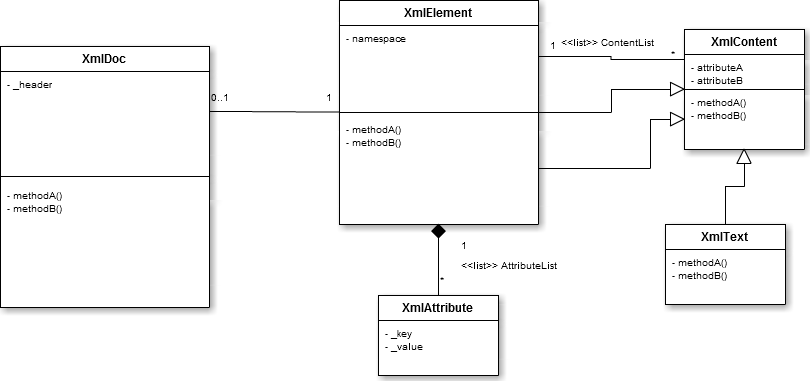
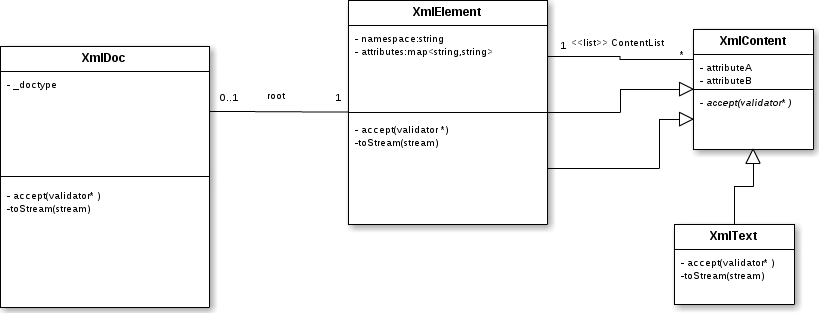
avancées dans la rédaction du rapport

Changed region(s): [[0.0, 0.0, 1.0, 1.0], [0.0, 0.6038, 0.1235, 0.6901], [0.0, 0.2588, 0.0617, 0.2875]]

diff --git a/SRC/AnalyseSyntaxique/src/structure/XmlDoc.cpp b/SRC/AnalyseSyntaxique/src/structure/XmlDoc.cpp
@@ -33,9 +33,6 @@ XmlDoc* XmlDoc::CreateDummyXmlForRap1()
 
   elt->addChild( new XmlElement( "" ,"titre" ) );
   elt->childElement("titre")->addChild( new XmlText("le titre") );
-
-  //elt->addChild( new XmlElement("p") );
-  //elt->childElement("p")->addChild(new XmlText("ooops"));
   
   elt->addChild( new XmlElement( "" ,"auteur" ) );
   elt->childElement("auteur")->addChild(new XmlElement("","prenom"));
@@ -49,23 +46,23 @@ XmlDoc* XmlDoc::CreateDummyXmlForRap1()
   
 
   elt->addChild( new XmlElement( "" ,"resume" ) );
-  elt->childElement("resume")->addChild(new XmlText("sioghipshgoipssgh" ));
+  elt->childElement("resume")->addChild(new XmlText("text de l'element resume" ));
   
   elt->addChild( new XmlElement( "" ,"chapitre" ) );
   elt->childElement("chapitre")->addChild(new XmlElement("","titre"));
-  elt->childElement("chapitre")->childElement("titre")->addChild(new XmlText("COmment faire de la merde" ));
+  elt->childElement("chapitre")->childElement("titre")->addChild(new XmlText("ceci est un titre" ));
   
   elt->childElement("chapitre")->addChild(new XmlElement("","section"));
   elt->childElement("chapitre")->childElement("section")->addChild(new XmlElement("","titre"));
-  elt->childElement("chapitre")->childElement("section")->childElement("titre")->addChild(new XmlText("titre de la section terrain" ));
+  elt->childElement("chapitre")->childElement("section")->childElement("titre")->addChild(new XmlText("titre de la section " ));
   elt->childElement("chapitre")->childElement("section")->addChild(new XmlElement("","p"));
-  elt->childElement("chapitre")->childElement("section")->childElement("p")->addChild(new XmlText("tqjkgjushgioshgidsghsdhsjjdghoidhgoi idrh w qrih goiwdh owdih oiwdhg iwh n" ));
+  elt->childElement("chapitre")->childElement("section")->childElement("p")->addChild(new XmlText("voici le texte de la section, un joli paragraph de texte." ));
   
   elt->childElement("chapitre")->addChild(new XmlElement("","section"));
   elt->childElement("chapitre")->childElement("section",1)->addChild(new XmlElement("","titre"));
   elt->childElement("chapitre")->childElement("section",1)->childElement("titre")->addChild(new XmlText("titre de la section terrain2" ));
   elt->childElement("chapitre")->childElement("section",1)->addChild(new XmlElement("","p"));
-  elt->childElement("chapitre")->childElement("section",1)->childElement("p")->addChild(new XmlText("tqjkgjushgioshgids<sdhw<  wfgj sfkijghsdhsjjdghoidhgoi idrh w qrih goiwdh owdih oiwdhg iwh n" ));
+  elt->childElement("chapitre")->childElement("section",1)->childElement("p")->addChild(new XmlText("encore un paragraph" ));
 
 
 
@@ -86,7 +83,7 @@ XmlDoc* XmlDoc::CreateDummyXmlForNoob()
   elt->addChild( new XmlElement( "" ,"titre" ) );
   
   
-  elt->childElement("titre")->addChild(new XmlText("COmment faire de la merde" ));
+  elt->childElement("titre")->addChild(new XmlText("Ceci est un titre" ));
   
 	return rap1xml;
 }

diff --git a/DOC/StructureDeDonnees.tex b/DOC/StructureDeDonnees.tex
@@ -2,9 +2,21 @@
 ici sont a coller tous les chémas concernant les différentes structures de données.
 
 \subsection{Xml}
+\begin{figure}[H]
+	\begin{center}
+	% l b r t
+		\includegraphics[scale=0.5]{IMG/XmlStructures.png}
+		\caption{Structure de données pour un document Xml}
+	\end{center}
+\end{figure}
 
 \subsection{Dtd}
-
-\subsection{Xsl}
+\begin{figure}[H]
+	\begin{center}
+	% l b r t
+		\includegraphics[scale=0.5]{IMG/DtdStructures.png}
+		\caption{Structure de données pour un document Dtd}
+	\end{center}
+\end{figure}
 
 

diff --git a/SRC/AnalyseSyntaxique/src/main.cpp b/SRC/AnalyseSyntaxique/src/main.cpp
@@ -52,9 +52,6 @@ int main(int argc, char **argv)
         
   //ici doit être mis l'apel au validateur  
   bool status = XmlValidator::validate( XmlDataStructure, DtdDataStructure); 
-  if(status)
-    std::cout <<"tout c'est bien passé"<<std::endl;
-  std::cout<<"on a un problemeklsgshgpixhgixhgixhgij"<<std::endl;
   DtdDataStructure->toStream(std::cout);
     
   printf("Coucou j'ai dilété la datastructure.\n");
